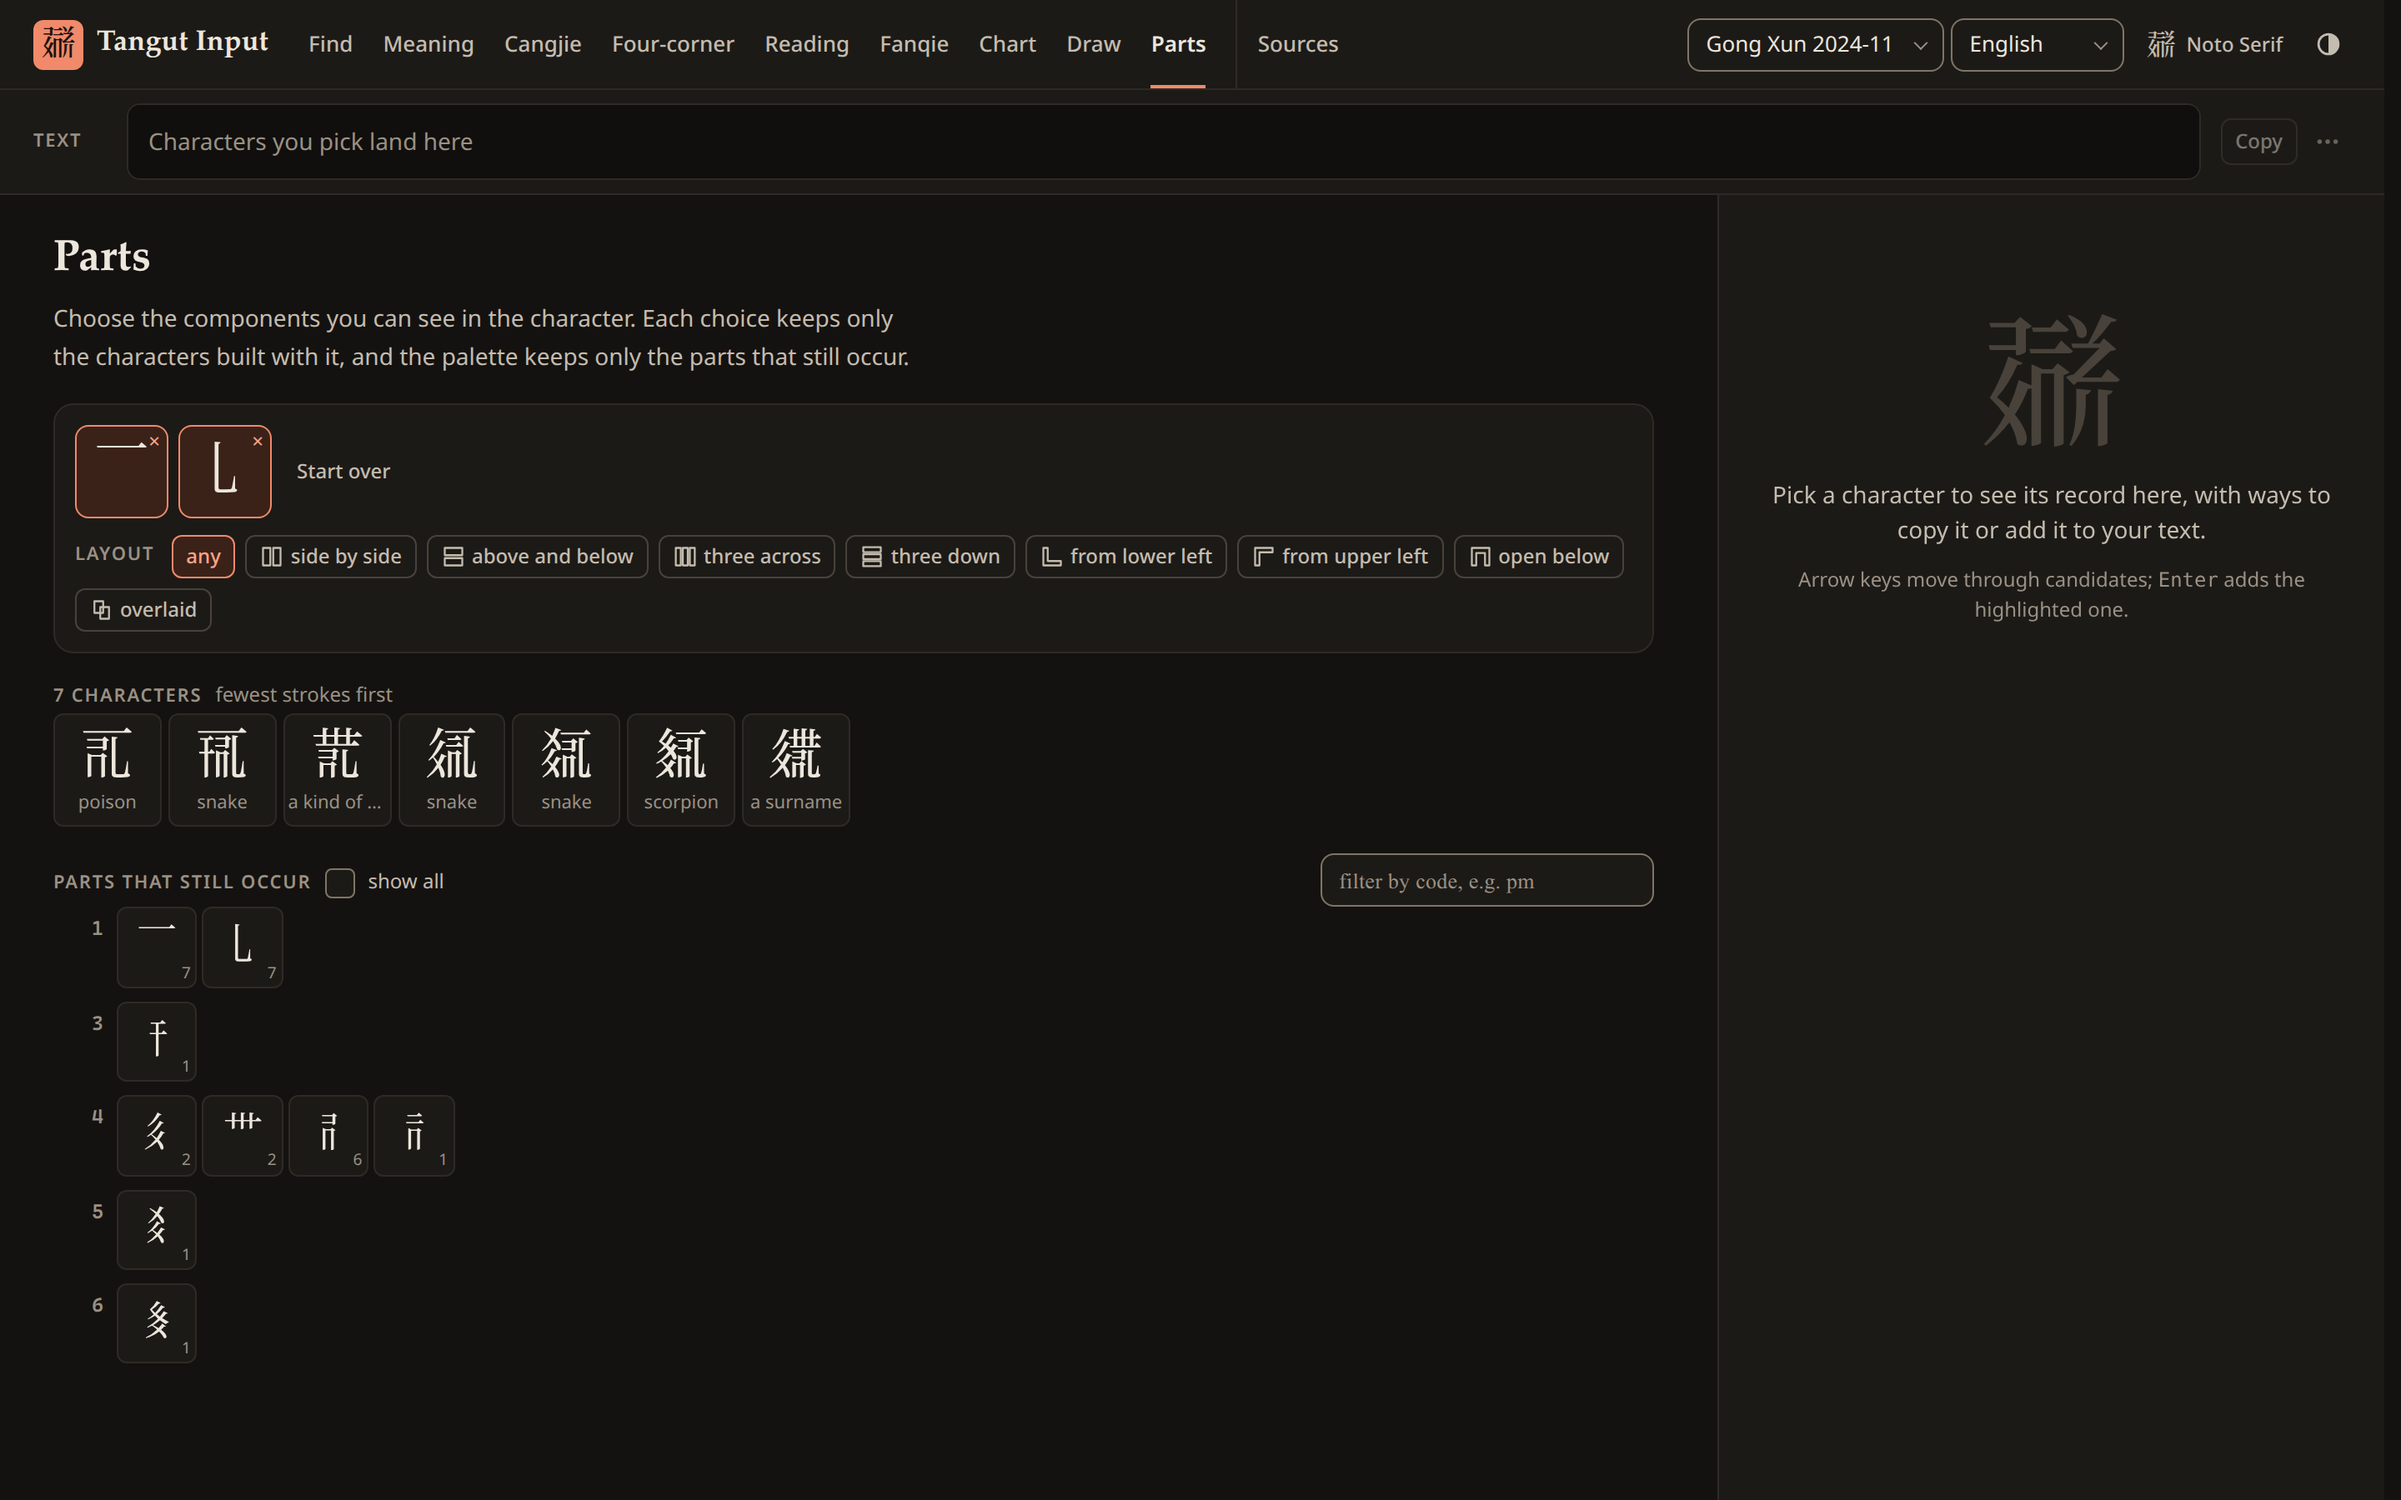
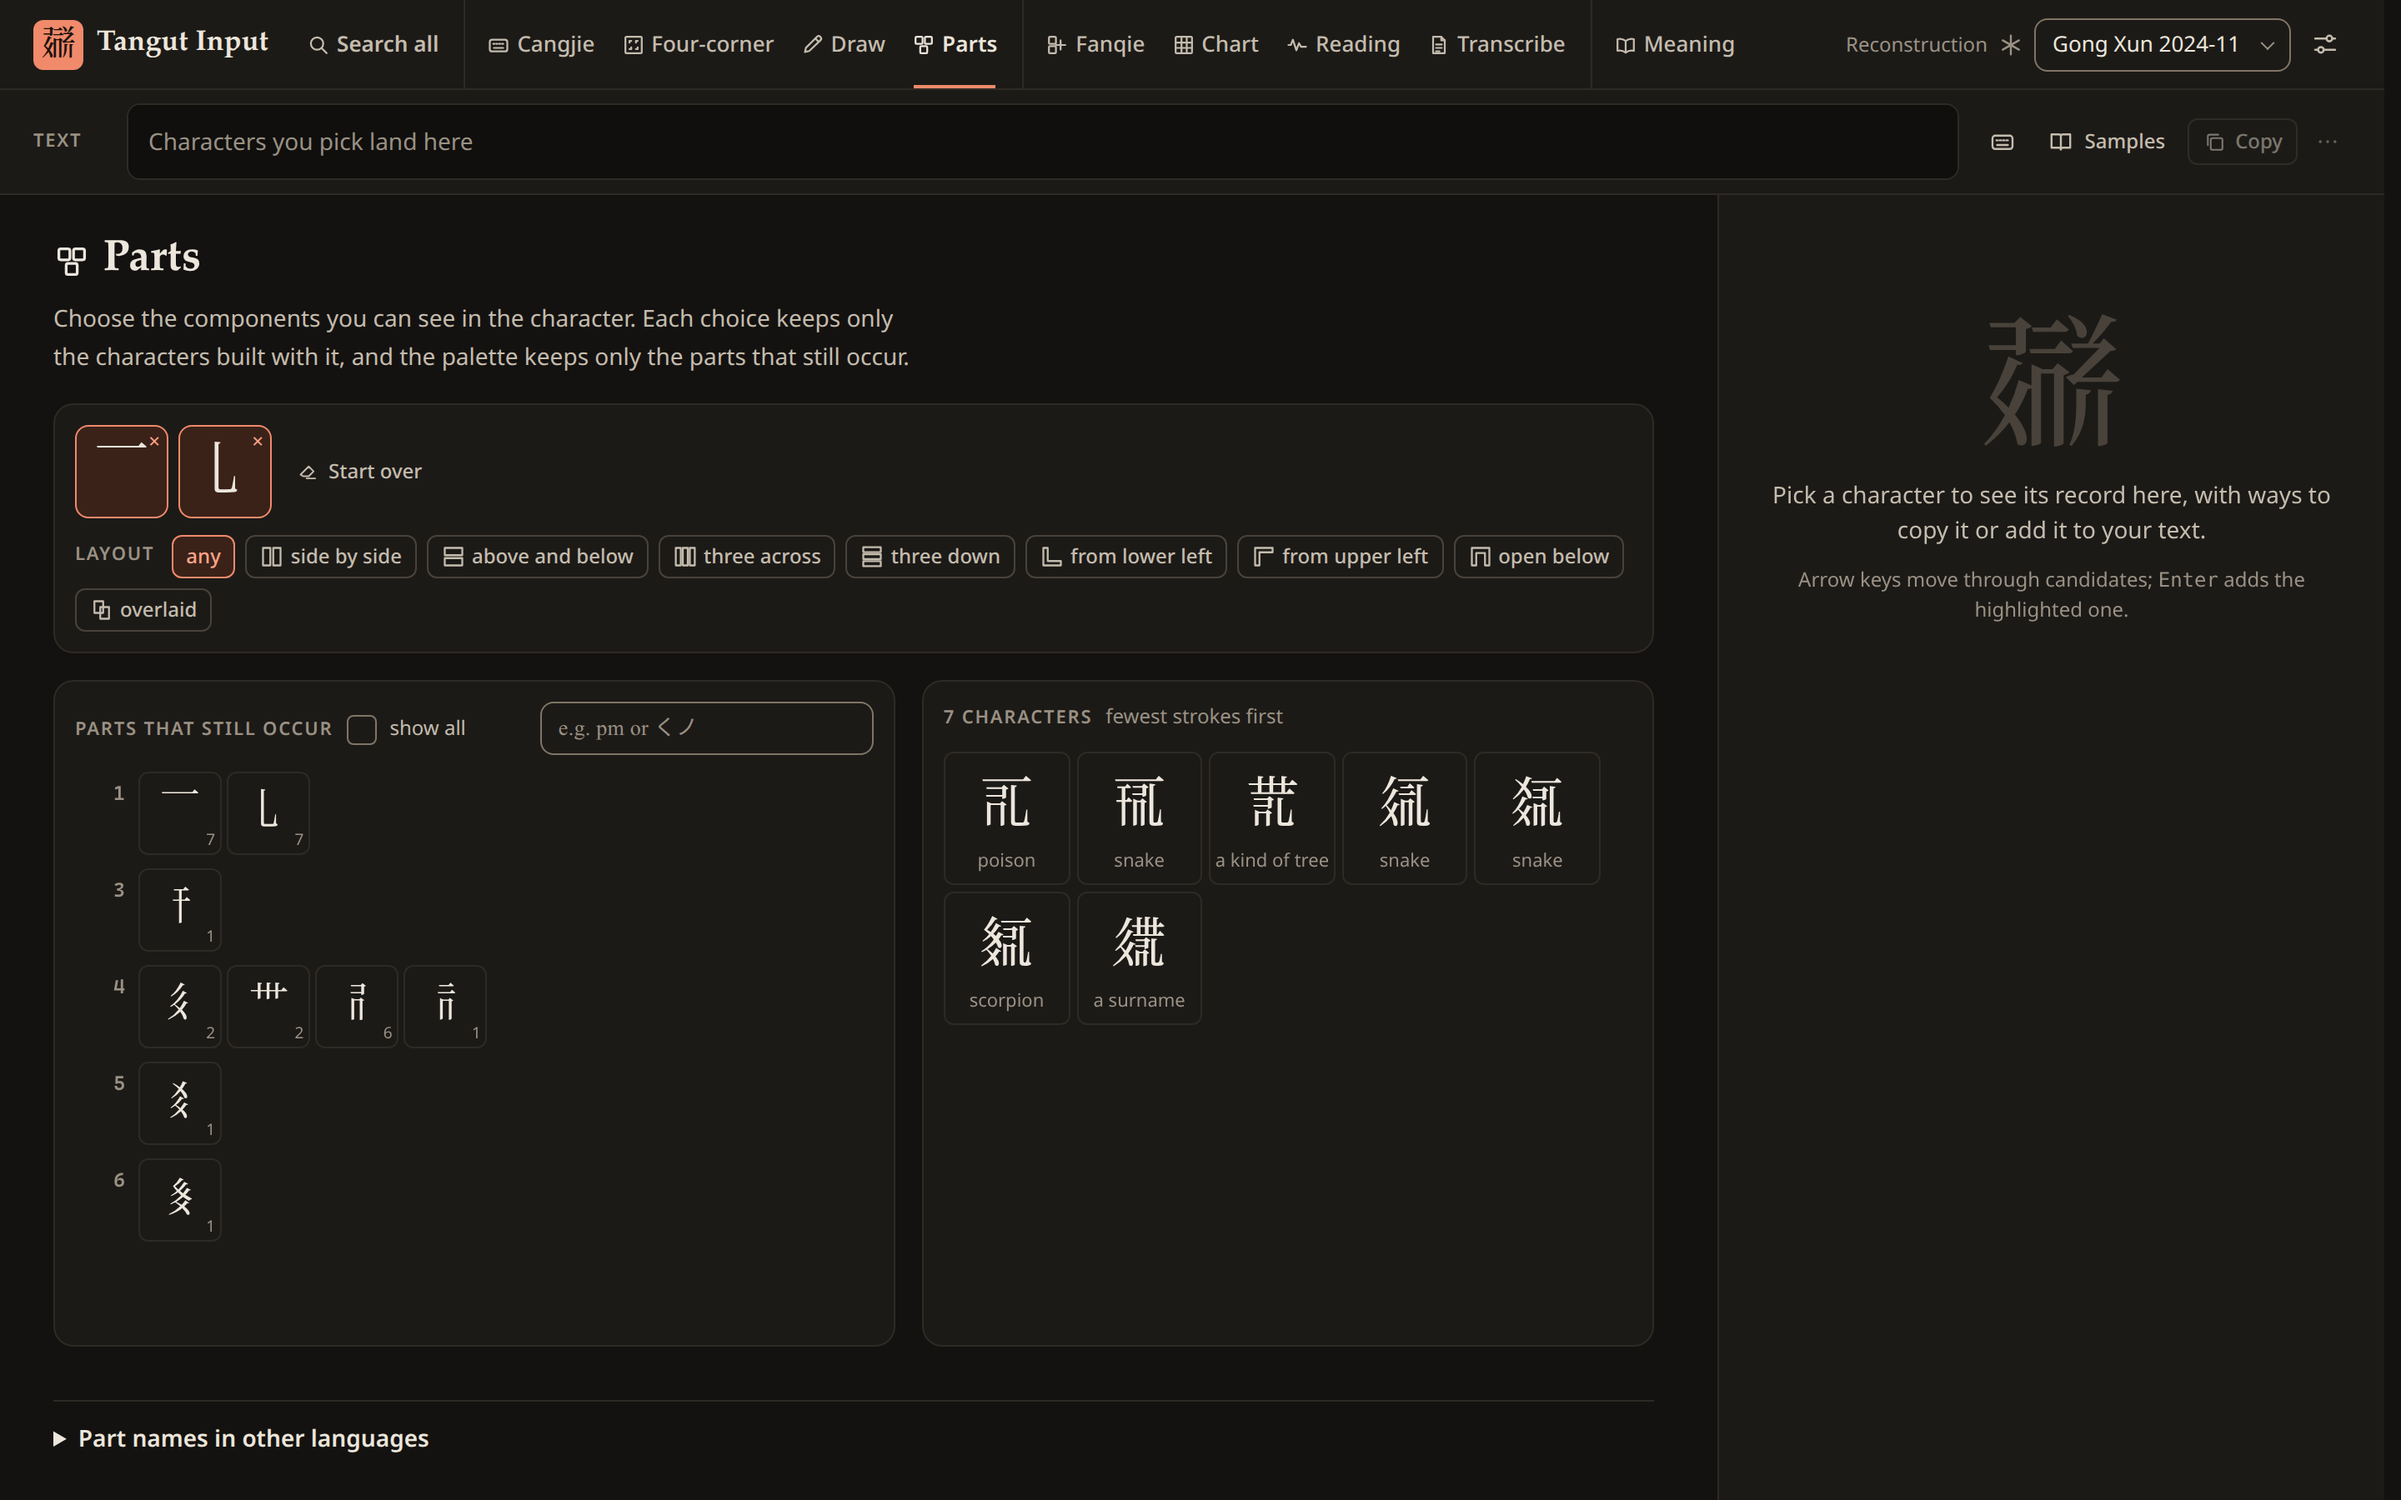
fix(parts): keep the component palette in view when matches appear

diff --git a/app/pages/Parts.svelte b/app/pages/Parts.svelte
@@ -25,11 +25,19 @@
   let info = $state(null)
   /** @type {Candidates | null} */
   let grid = $state(null)
+  /** @type {HTMLElement | null} */
+  let results = $state(null)
 
   const ready = $derived(db.status === 'ready')
   // A part from the address waits for the records before it can be checked.
   $effect(() => {
     if (ready && !chosen.length && route.q) chosen = [...route.q].filter(isTangut).flatMap(char => ix.usedBy.has(char) ? [char] : partsIn(char))
+  })
+  // New matches are read from their first row; the palette keeps its own place.
+  $effect(() => {
+    void chosen
+    void layout
+    if (results) results.scrollTop = 0
   })
 
   const hits = $derived(ready ? byParts(chosen, layout) : [])
@@ -144,21 +152,54 @@
     </div>
   </section>
 
-  <section class="matches" aria-label={t('parts.matchesLabel')}>
-    <div class="ui-section-head">
-      <h2 class="ui-label">{chosen.length || layout ? t('common.characters', { count: hits.length }) : t('common.charactersLabel')}</h2>
-      {#if chosen.length || layout}<span class="ui-count">{t('parts.fewestStrokes')}</span>{/if}
-    </div>
-    {#if chosen.length || layout}
-      {#if hits.length}
-        <div role="presentation" onkeydown={keys}><Candidates bind:this={grid} {items} bind:active size={64} label={t('parts.matchesLabel')} limit={240} /></div>
-      {:else}
-        <p class="ui-empty">{layout ? t('parts.noMatchLayout') : t('parts.noMatch')}</p>
-      {/if}
-    {:else}
-      <p class="ui-empty">{t('parts.empty')}</p>
-    {/if}
-  </section>
+  <div class="work">
+    <section class="palette pane ui-card" data-padding="sm" aria-label={t('parts.paletteLabel')}>
+      <div class="ui-section-head">
+        <h2 class="ui-label">{among && !everything ? t('parts.stillOccur') : t('parts.allComponents')}</h2>
+        {#if among}
+          <label class="ui-check-row all"><input class="ui-checkbox" type="checkbox" bind:checked={everything} /> <span>{t('parts.showAll')}</span></label>
+        {/if}
+        <span class="filter-wrap">
+          <input class="ui-input ui-mono" data-size="sm" data-primary bind:value={filter} oninput={() => { info = null }} placeholder={t('parts.filterPlaceholder')} aria-label={t('parts.filterLabel')} spellcheck="false" autocomplete="off" />
+        </span>
+      </div>
+      <div class="strokes" onscroll={hideInfo}>
+        {#each byStroke as [count, parts] (count)}
+          <div class="stroke-group">
+            <h3 class="stroke-count" title={t('draw.strokes', { count })}>{count || '?'}</h3>
+            <div class="ui-tiles comps" style:--ui-tile-size="46px">
+              {#each parts as p (p.part)}
+                <button type="button" class="ui-tile comp" data-dim={p.live === 0 ? '' : undefined} onclick={() => add(p.part)}
+                  aria-describedby={info?.part === p.part ? 'part-info' : undefined}
+                  aria-label={partLabel(p)}
+                  onmouseenter={event => showInfo(event, p)} onmouseleave={hideInfo} onfocus={event => showInfo(event, p)} onblur={hideInfo}>
+                  <G char={p.part} />{#if p.live > 0}<small class="use">{p.live}</small>{/if}
+                </button>
+              {/each}
+            </div>
+          </div>
+        {/each}
+      </div>
+    </section>
+
+    <section class="matches pane ui-card" data-padding="sm" aria-label={t('parts.matchesLabel')}>
+      <div class="ui-section-head">
+        <h2 class="ui-label">{chosen.length || layout ? t('common.characters', { count: hits.length }) : t('common.charactersLabel')}</h2>
+        {#if chosen.length || layout}<span class="ui-count">{t('parts.fewestStrokes')}</span>{/if}
+      </div>
+      <div class="results" bind:this={results}>
+        {#if chosen.length || layout}
+          {#if hits.length}
+            <div role="presentation" onkeydown={keys}><Candidates bind:this={grid} {items} bind:active size={64} label={t('parts.matchesLabel')} limit={240} /></div>
+          {:else}
+            <p class="ui-empty">{layout ? t('parts.noMatchLayout') : t('parts.noMatch')}</p>
+          {/if}
+        {:else}
+          <p class="ui-empty">{t('parts.empty')}</p>
+        {/if}
+      </div>
+    </section>
+  </div>
 
   {#if ready && ix.partNames?.rows.length}
     <details class="name-table">
@@ -188,34 +229,6 @@
       </div>
     </details>
   {/if}
-  <section class="palette" aria-label={t('parts.paletteLabel')}>
-    <div class="ui-section-head">
-      <h2 class="ui-label">{among && !everything ? t('parts.stillOccur') : t('parts.allComponents')}</h2>
-      {#if among}
-        <label class="ui-check-row all"><input class="ui-checkbox" type="checkbox" bind:checked={everything} /> <span>{t('parts.showAll')}</span></label>
-      {/if}
-      <span class="filter-wrap">
-        <input class="ui-input ui-mono" data-size="sm" data-primary bind:value={filter} oninput={() => { info = null }} placeholder={t('parts.filterPlaceholder')} aria-label={t('parts.filterLabel')} spellcheck="false" autocomplete="off" />
-      </span>
-    </div>
-    <div class="strokes">
-      {#each byStroke as [count, parts] (count)}
-        <div class="stroke-group">
-          <h3 class="stroke-count" title={t('draw.strokes', { count })}>{count || '?'}</h3>
-          <div class="ui-tiles comps" style:--ui-tile-size="46px">
-            {#each parts as p (p.part)}
-              <button type="button" class="ui-tile comp" data-dim={p.live === 0 ? '' : undefined} onclick={() => add(p.part)}
-                aria-describedby={info?.part === p.part ? 'part-info' : undefined}
-                aria-label={partLabel(p)}
-                onmouseenter={event => showInfo(event, p)} onmouseleave={hideInfo} onfocus={event => showInfo(event, p)} onblur={hideInfo}>
-                <G char={p.part} />{#if p.live > 0}<small class="use">{p.live}</small>{/if}
-              </button>
-            {/each}
-          </div>
-        </div>
-      {/each}
-    </div>
-  </section>
 
   {#if info}<PartInfo part={info.part} x={info.x} y={info.y} live={info.live} />{/if}
 </div>
@@ -236,7 +249,10 @@
   .filter-wrap{margin-inline-start:auto}
   .filter-wrap .ui-input{inline-size:200px}
   .all{min-block-size:24px;font-size:var(--ui-text-xs);color:var(--ui-color-ink-soft)}
-  .strokes{display:grid;gap:var(--ui-space-sm)}
+  .work{display:grid;grid-template-columns:minmax(0,1.15fr) minmax(0,1fr);gap:var(--ui-space-xl);align-items:stretch}
+  .pane{display:grid;grid-template-rows:auto minmax(0,1fr);gap:var(--ui-space-md);block-size:clamp(340px,calc(100dvh - 500px),680px);min-inline-size:0}
+  .strokes,.results{min-block-size:0;overflow:auto;overscroll-behavior:contain;scrollbar-gutter:stable;padding-inline-end:var(--ui-space-2xs)}
+  .strokes{display:grid;align-content:start;gap:var(--ui-space-sm)}
   .stroke-group{display:grid;grid-template-columns:30px minmax(0,1fr);gap:var(--ui-space-sm);align-items:start}
   .stroke-count{padding-top:var(--ui-space-xs);color:var(--ui-color-ink-muted);font-family:var(--ui-font-mono);font-size:var(--ui-text-xs);font-weight:var(--ui-weight-semibold);text-align:end}
   .comps{gap:3px}
@@ -253,7 +269,12 @@
   .name-table th[scope='row'] :global(.ui-script){font-size:22px;margin-inline-end:4px}
   .name-table td{vertical-align:top}
   .name-table .source{white-space:nowrap;color:var(--ui-color-ink-muted);font-size:var(--ui-text-2xs)}
+  @media (max-width:1240px){
+    .work{grid-template-columns:minmax(0,1fr)}
+    .pane{block-size:clamp(300px,38dvh,460px)}
+  }
   @media (max-width:900px){
+    .pane{block-size:clamp(260px,33dvh,380px);padding:var(--ui-space-md)}
     .filter-wrap{inline-size:100%;margin-inline-start:0}
     .filter-wrap .ui-input{inline-size:100%}
     .layouts .ui-chip span{display:none}

diff --git a/docs/design.md b/docs/design.md
@@ -98,12 +98,14 @@ when the user has one. A checkbox favours characters whose recorded stroke count
 number of strokes drawn; another adds components to the search. On a phone, results come straight
 after the pad and the note follows them.
 
-**Parts** (`/parts`) builds a character from components, as the script is built. Each chosen part
-keeps only the characters whose description holds it (twice if chosen twice), and the palette
-below keeps only the parts that still occur, with a count on each, so the next choice always leads
-somewhere. An outer layout (side by side, above and below, three across …) narrows further. The
-palette is ordered by stroke count, then by use, and can be filtered by Cangjie code. Choosing a
-part also opens it in the card. A card's “Characters with these parts” link opens Parts with that
+**Parts** (`/parts`) builds a character from components, as the script is built. The palette and
+the matching characters sit in two panes side by side, stacked on a narrow screen, each scrolling
+on its own, so a new match never pushes the palette out of reach. Each chosen part keeps only the
+characters whose description holds it (twice if chosen twice), and the palette keeps only the parts
+that still occur, with a count on each, so the next choice always leads somewhere. An outer layout
+(side by side, above and below, three across …) narrows further. The palette is ordered by stroke
+count, then by use, and can be filtered by Cangjie code or Japanese shape name. Choosing a part
+also opens it in the card. A card's “Characters with these parts” link opens Parts with that
 character's parts chosen.
 
 **Fanqie** (`/fanqie`) goes the other way: it takes the upper and lower characters a rhyme book
